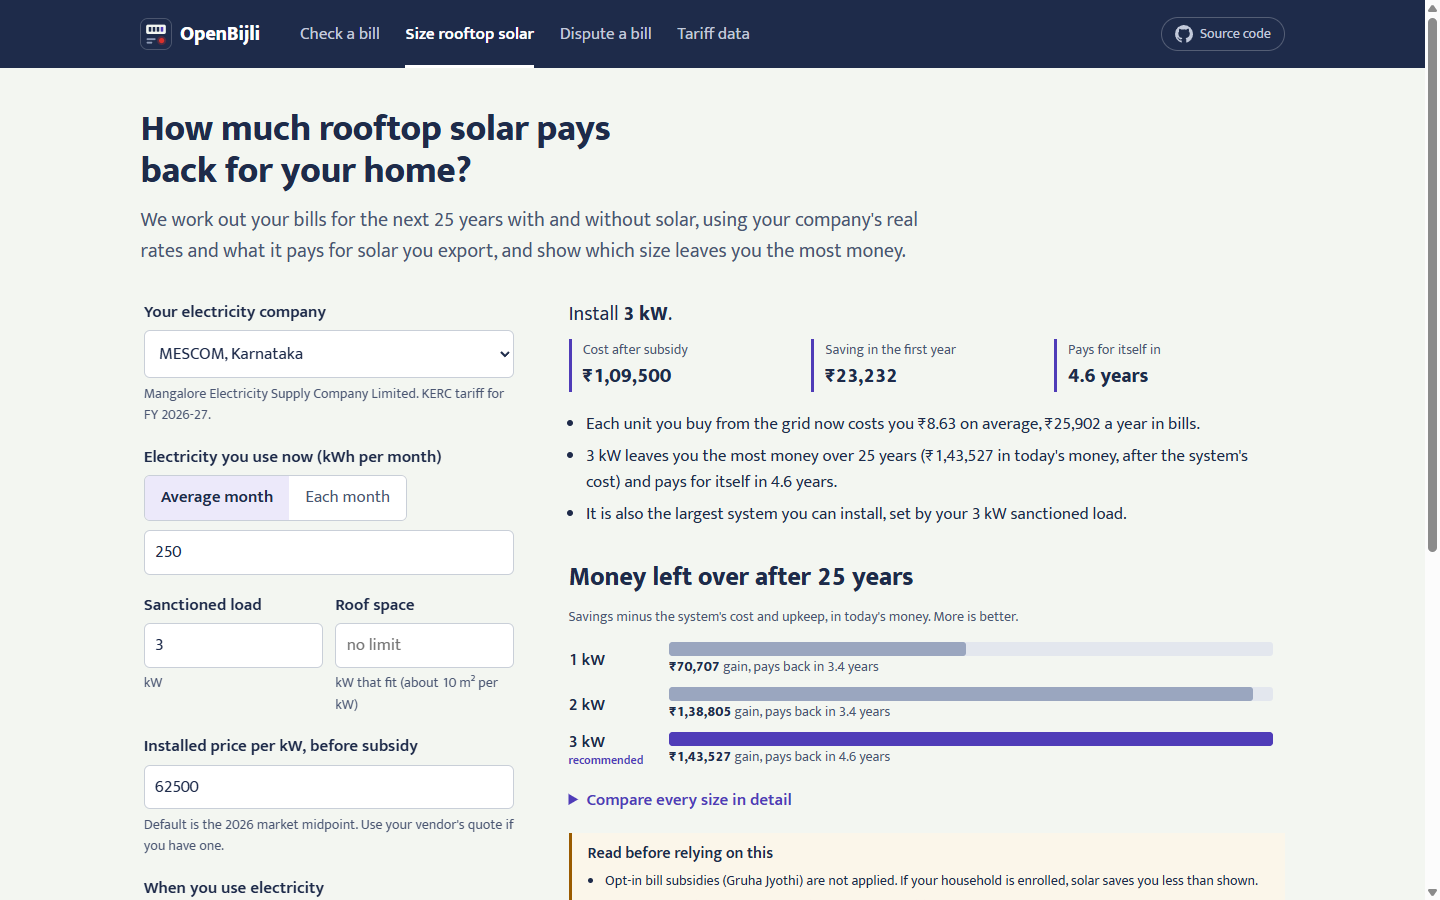
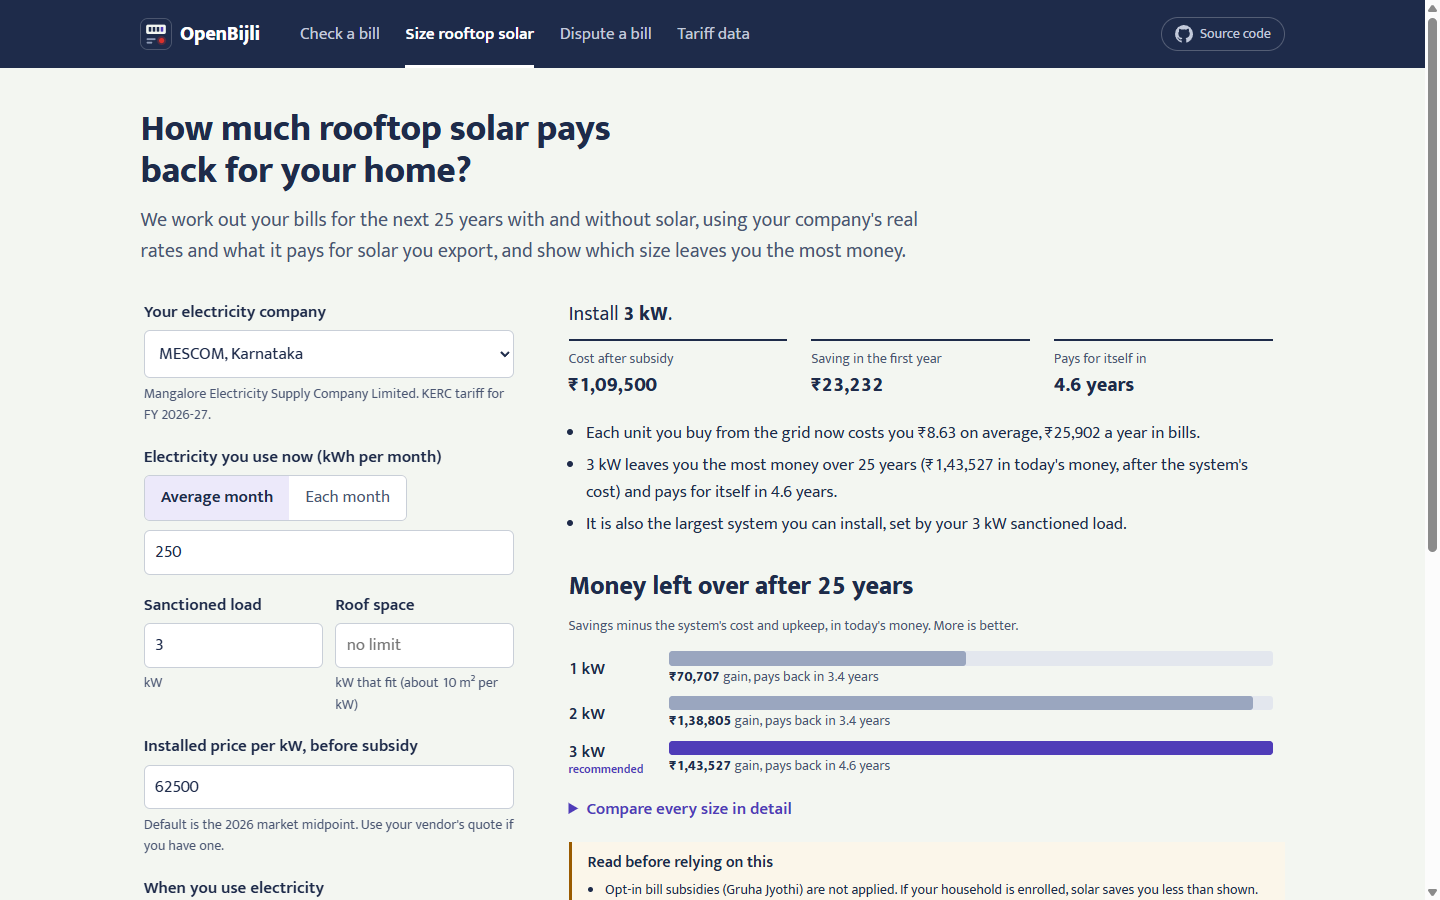
style(web): show solar result figures as ledger columns
Replaces the coloured side bars on the cost, saving and payback figures with the navy rule used under the bill slip header.

diff --git a/apps/web/src/styles.css b/apps/web/src/styles.css
@@ -326,7 +326,7 @@ main:focus { outline: none; }
 
 /* ---------- solar result ---------- */
 .facts { display: grid; grid-template-columns: repeat(auto-fit, minmax(10rem, 1fr)); gap: 0.6rem 1.5rem; margin: 0.4rem 0 1.2rem; max-width: 44rem; }
-.facts div { border-left: 3px solid var(--stamp); padding-left: 0.7rem; }
+.facts div { border-top: 2px solid var(--ink); padding-top: 0.45rem; }
 .facts dt { color: var(--ink-soft); font-size: var(--step--1); }
 .facts dd { margin: 0; font-size: var(--step-1); font-weight: 800; }
 .bars { list-style: none; padding: 0; margin: 0.6rem 0 1rem; max-width: 44rem; display: grid; gap: 0.55rem; }
